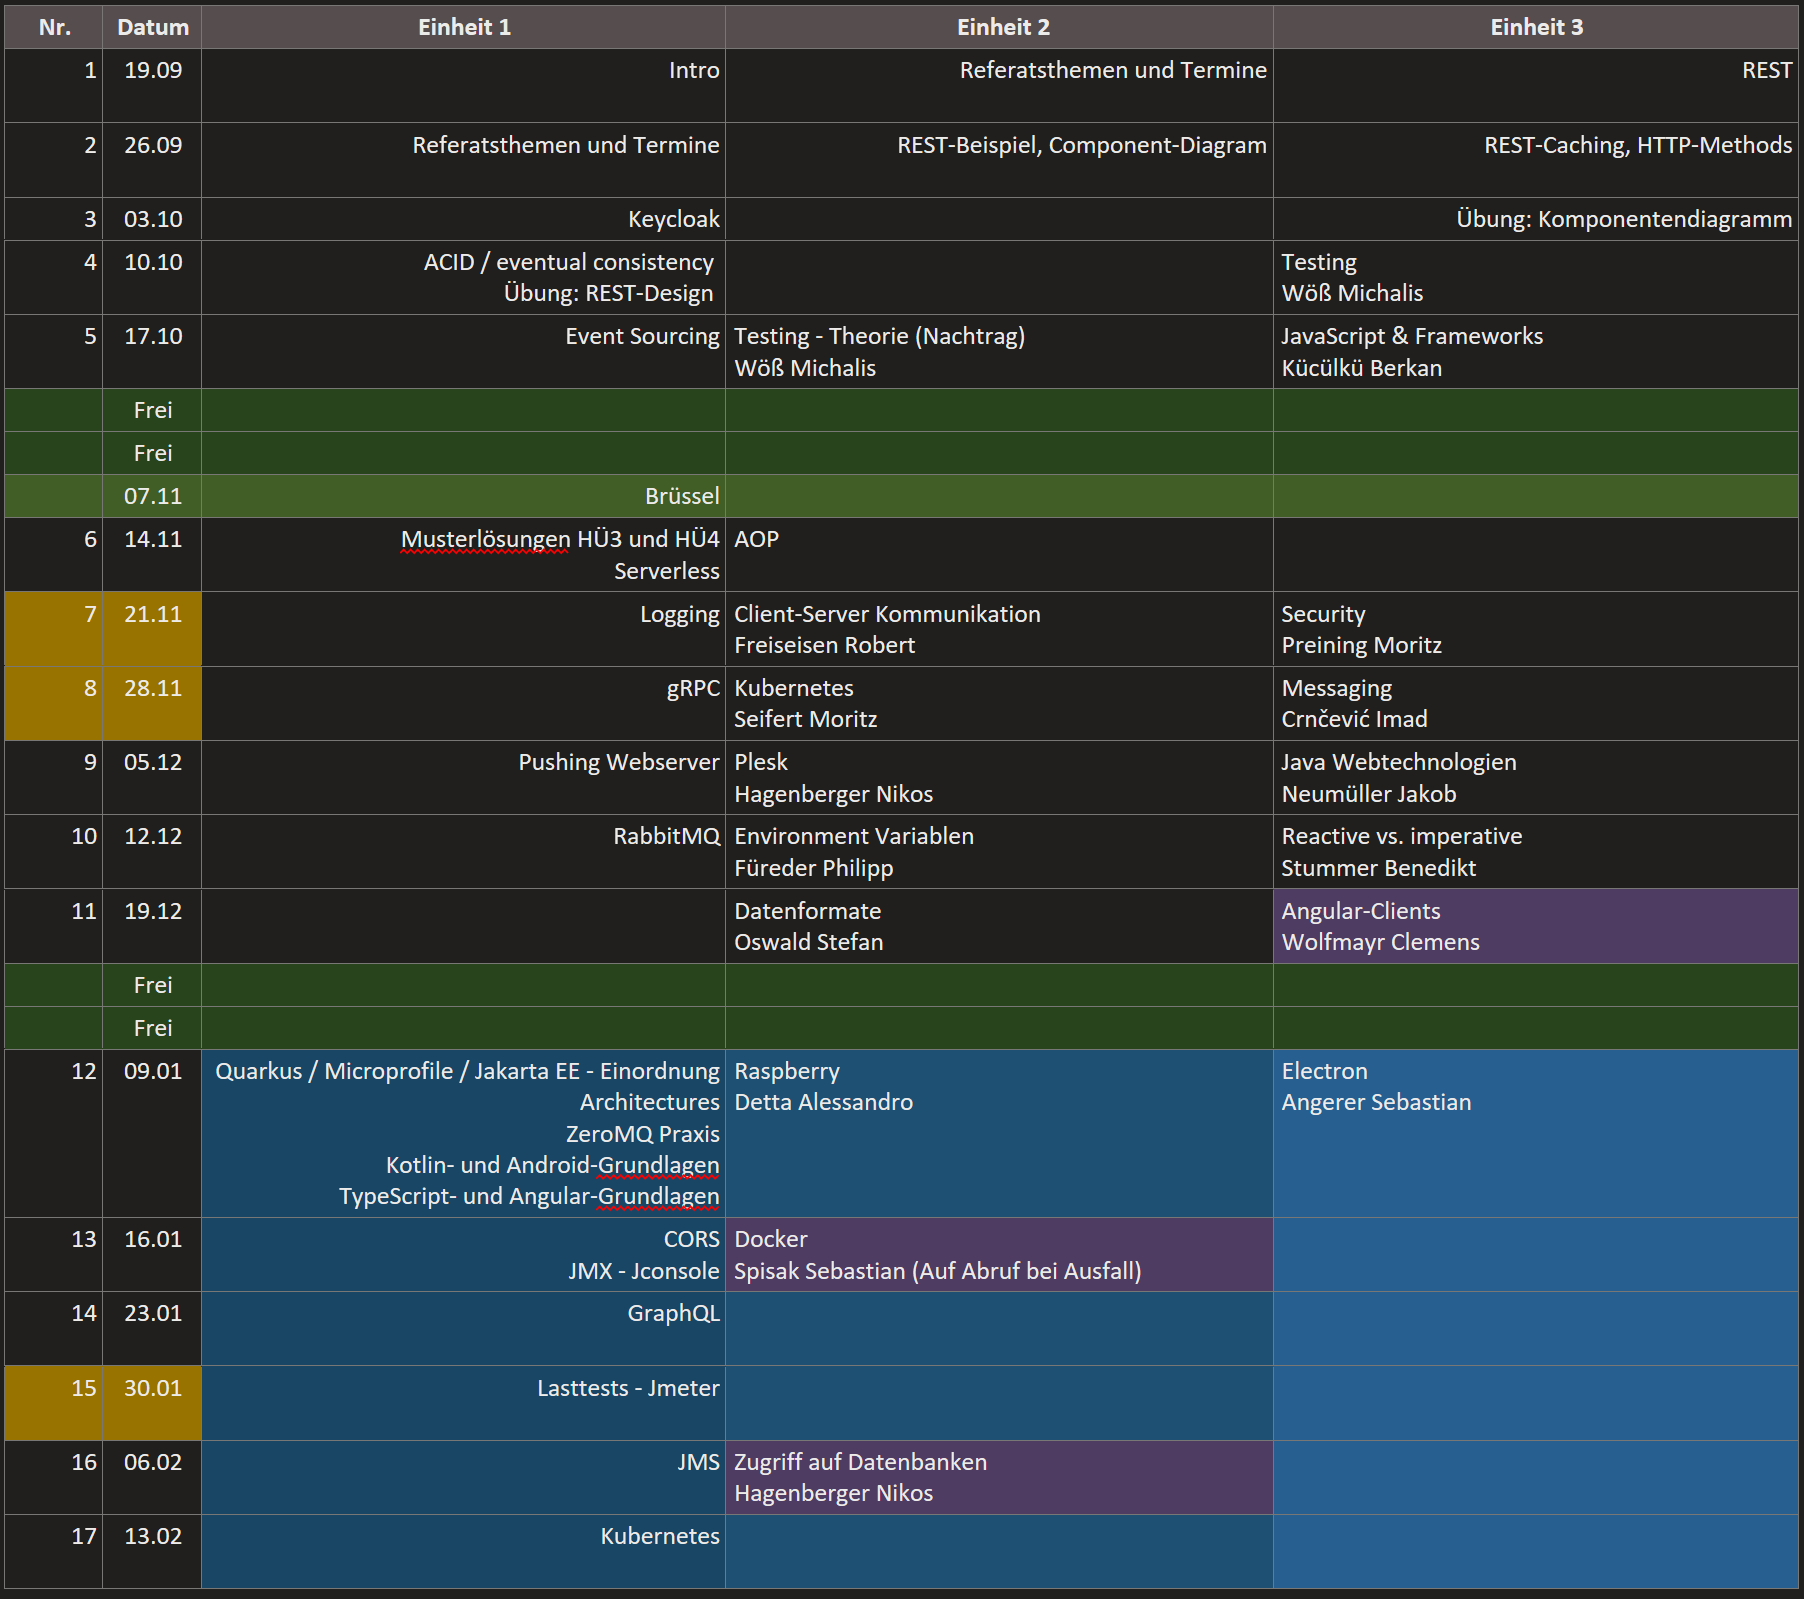
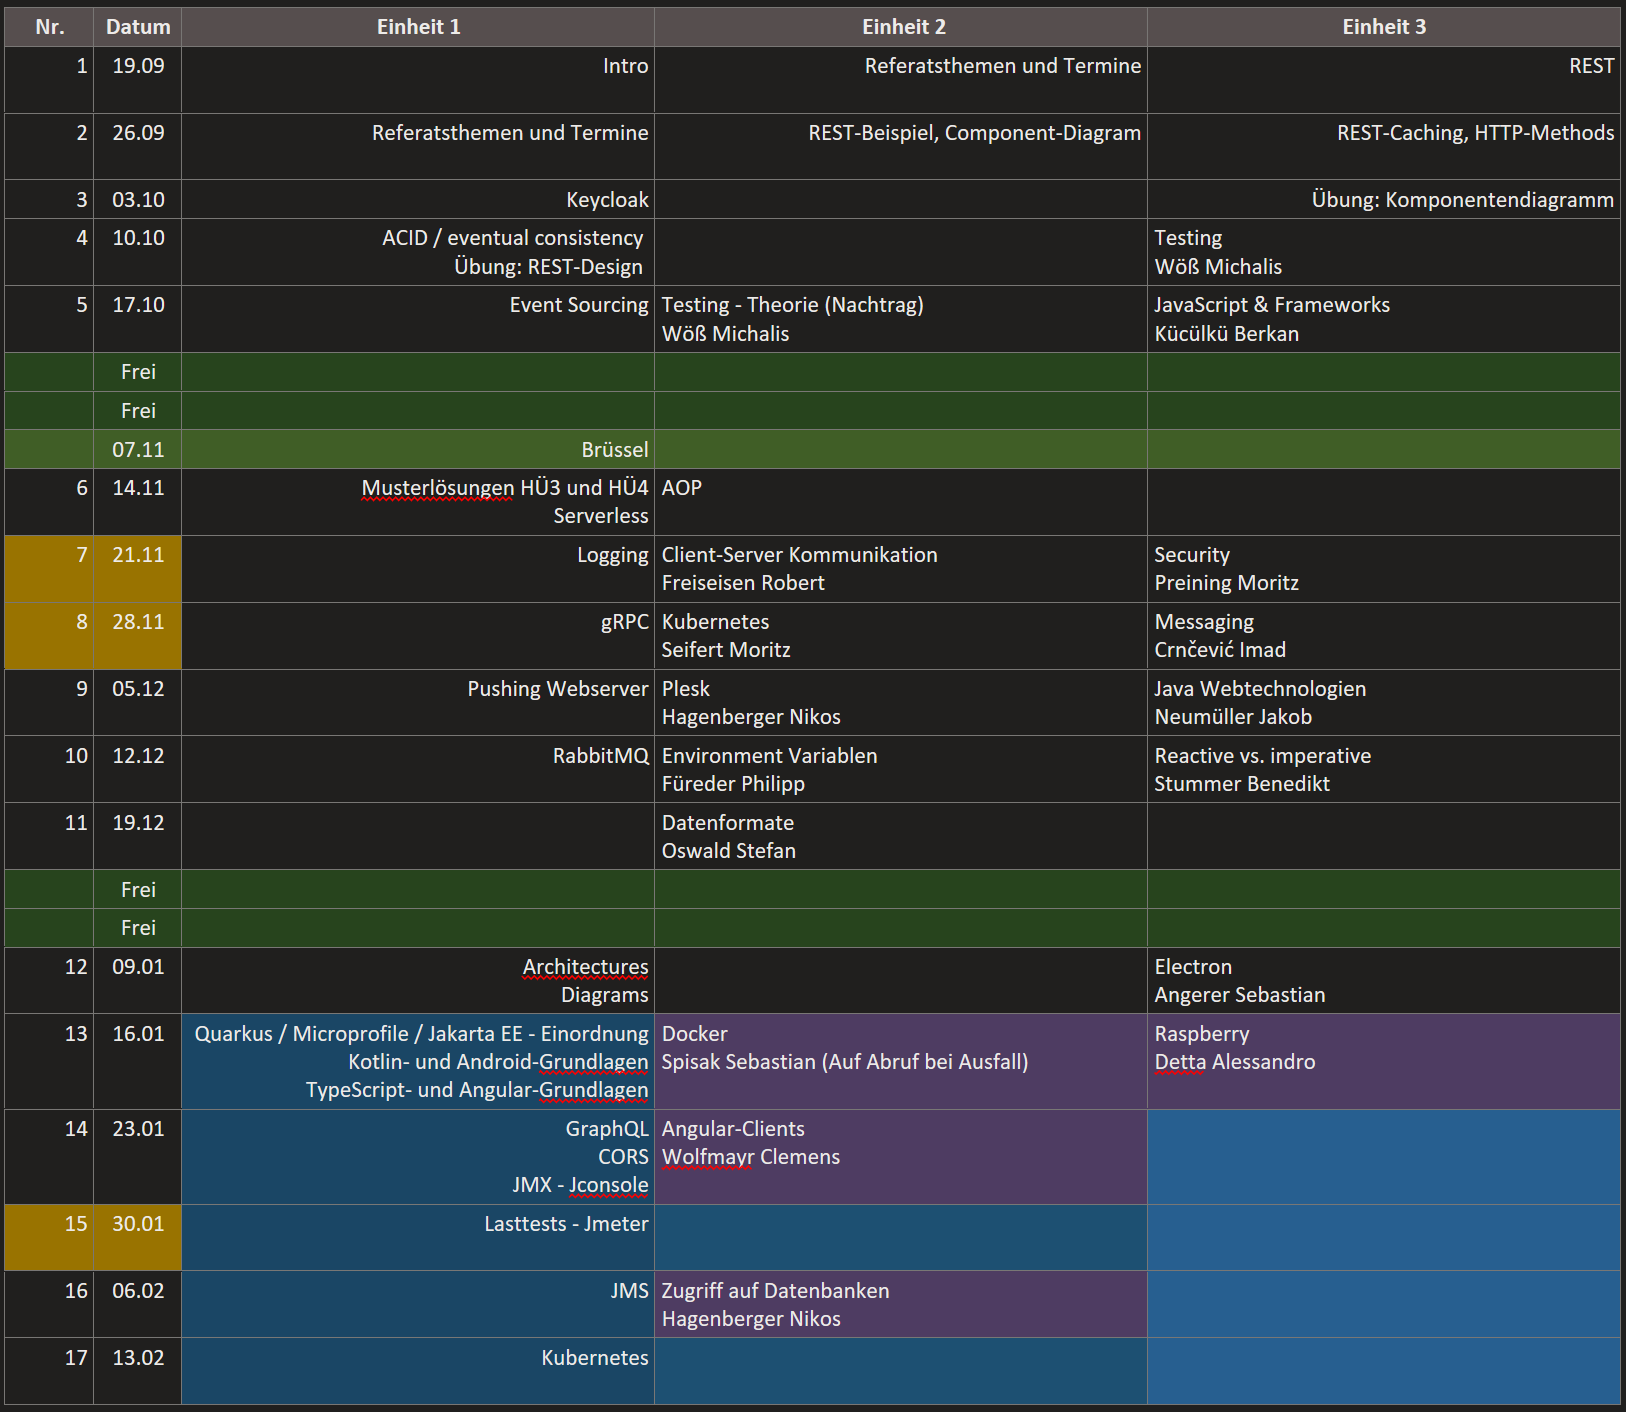
update

diff --git a/5BHIF-NVSV.md b/5BHIF-NVSV.md
@@ -18,16 +18,25 @@ https://classroom.github.com/a/0pIFwT2Q
 
 
 
-## 12. Einheit 2023-01-09
+## 13. Einheit 2023-01-16
 
 * [JavaEE-Spring-Microservices-Quarkus](https://github.com/UnterrainerInformatik/htl/blob/master/presentations/ee-micro-quark.pdf)
-* [Architekturstile](https://github.com/UnterrainerInformatik/htl/blob/master/presentations/architectures.pdf)
 * [Kotlin-Android-JetpackCompose-Basics](https://github.com/UnterrainerInformatik/htl/blob/master/presentations/kotlin-android-basics.pdf)
 * [Typescript-Angular-Basics](https://github.com/UnterrainerInformatik/htl/blob/master/presentations/typescript-angluar-basics.pdf)
-* [Diagramme](https://github.com/UnterrainerInformatik/htl/blob/master/presentations/diagrams.pdf)
 * ZeroMQ Praxis-Beispiel
   * https://github.com/UnterrainerInformatik/htl-zeromq
   * unterrainer.info:5556,5557
+
+### Hausübung
+
+Nichts
+
+
+
+## 12. Einheit 2023-01-09
+
+* [Architekturstile](https://github.com/UnterrainerInformatik/htl/blob/master/presentations/architectures.pdf)
+* [Diagramme](https://github.com/UnterrainerInformatik/htl/blob/master/presentations/diagrams.pdf)
 
 ### Hausübung
 

diff --git a/5CHIF-NVSV.md b/5CHIF-NVSV.md
@@ -18,6 +18,21 @@ https://classroom.github.com/a/QTfc9_Zk
 
 
 
+## 13. Einheit 2023-01-16
+
+* [JavaEE-Spring-Microservices-Quarkus](https://github.com/UnterrainerInformatik/htl/blob/master/presentations/ee-micro-quark.pdf)
+* [Kotlin-Android-JetpackCompose-Basics](https://github.com/UnterrainerInformatik/htl/blob/master/presentations/kotlin-android-basics.pdf)
+* [Typescript-Angular-Basics](https://github.com/UnterrainerInformatik/htl/blob/master/presentations/typescript-angluar-basics.pdf)
+* ZeroMQ Praxis-Beispiel
+  * https://github.com/UnterrainerInformatik/htl-zeromq
+  * unterrainer.info:5556,5557
+
+### Hausübung
+
+Nichts
+
+
+
 ## 12. Einheit 2023-01-09
 
 * [JavaEE-Spring-Microservices-Quarkus](https://github.com/UnterrainerInformatik/htl/blob/master/presentations/ee-micro-quark.pdf)
@@ -32,6 +47,8 @@ https://classroom.github.com/a/QTfc9_Zk
 ### Hausübung
 
 Nichts
+
+
 
 ## 11. Einheit 2022-12-19
 
